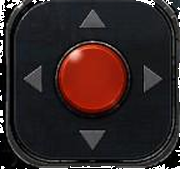
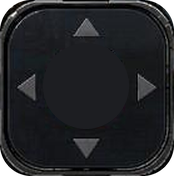
D패드 다시 자름 — 좌우·아래 잘림과 박혀 있던 버튼 제거
dpadbase 는 1차 전수 감사에서 잘림 61.2% 로 이미 걸렸었다. 그때 "목업에
회색 십자키가 맞으니 충실한 것"이라고 판단해 워크오더에서 뺐다. 수치를
보고도 목업과 나란히 놓고 보지 않은 게 잘못이었다. 실제로는 크롭 박스가
패드 경계와 어긋나 좌우와 아래가 잘렸고, 모서리를 flood fill 로 판 자리에
흰·검은 얼룩이 남아 있었다.

목업에 격자를 얹어 모서리 곡선까지 확대해 실측했다. 패드의 바깥 금속
테두리는 x 12~150, y 841~981, 모서리 반지름 25 다. 모서리 투명화는 flood
fill 대신 둥근 사각형 마스크로 했다 — 패드가 실제로 둥근 사각형이라
기하학적으로 정확하고, 배경색을 따라가지 않으니 얼룩이 안 남는다.

그리고 베이스에 빨간 버튼이 박혀 있었다. 노브는 별도 오브젝트로 움직이므로
패드를 옮기면 버튼이 두 개로 보인다. 버튼 자리를 패드 표면색으로 메웠다.
투명하게 뚫으면 그 자리로 바닥이 비친다.

감사 스크립트에는 dpadbase·dpadknob 을 '상자를 꽉 채우는 도형' 예외로
등록했다. 다만 예외에 넣기 전에 목업과 대조하라는 경고를 함께 적었다 —
수치가 오탐인 것과 결함이 없는 것은 다르다.

diff --git a/Projects/AVSR/_recut_dpad.py b/Projects/AVSR/_recut_dpad.py
@@ -1,0 +1,89 @@
+"""D패드를 목업에서 다시 자른다.
+
+기존 dpadbase 는 크롭 박스가 실제 패드 경계와 어긋나 좌우·아래가 잘렸고,
+모서리를 flood fill 로 파낸 자리에 흰·검은 얼룩이 남았다.
+
+목업에 격자를 얹어 실측한 경계는 x 8~148, y 838~980 이다.
+모서리 투명화는 flood fill 대신 **둥근 사각형 마스크**로 한다. 패드가
+실제로 둥근 사각형이므로 기하학적으로 정확하고, 배경색을 따라가지 않으니
+얼룩이 남지 않는다. 노브도 같은 이유로 타원 마스크를 쓴다.
+"""
+import os
+from PIL import Image, ImageDraw
+
+HERE = os.path.dirname(os.path.abspath(__file__))
+ROOT = os.path.abspath(os.path.join(HERE, '..', '..'))
+IG = os.path.join(ROOT, 'Assets', 'BaseResource', 'InGameMainUI')
+MOCK = os.path.join(HERE, 'Reference', 'Mockups', 'ingame_hd_scene.jpeg')
+
+S = 720 / 576                  # 인게임 목업 → 캔버스 배율
+BASE_BOX = (12, 841, 139, 141) # 실측: 바깥 금속 테두리 딱 맞게 (모서리 곡선 확대해 확인)
+KNOB_BOX = (49, 878, 64, 64)   # 실측: 빨간 면 54px + 검은 베젤
+CORNER = 25                    # 실측 모서리 반지름. 크면 모서리를 깎고, 작으면 배경이 샌다
+SS = 4                         # 마스크를 4배로 그린 뒤 줄여 계단을 없앤다
+
+
+def cut(box, mask_kind, radius=0):
+    x, y, w, h = box
+    src = Image.open(MOCK).convert('RGB').crop((x, y, x + w, y + h))
+    src = src.resize((round(w * S), round(h * S)), Image.LANCZOS).convert('RGBA')
+
+    m = Image.new('L', (src.width * SS, src.height * SS), 0)
+    d = ImageDraw.Draw(m)
+    if mask_kind == 'round':
+        d.rounded_rectangle([0, 0, m.width - 1, m.height - 1],
+                            radius=round(radius * S * SS), fill=255)
+    else:
+        d.ellipse([0, 0, m.width - 1, m.height - 1], fill=255)
+    src.putalpha(m.resize(src.size, Image.LANCZOS))
+    return src
+
+
+def erase_knob(base):
+    """베이스에 박혀 있는 빨간 버튼을 지우고 패드 표면색으로 메운다.
+
+    노브는 별도 오브젝트로 움직인다. 베이스에도 버튼이 남아 있으면 패드를
+    옮길 때 빨간 버튼이 두 개로 보인다. 투명하게 뚫으면 그 자리로 바닥이
+    비치므로, 패드의 어두운 표면색으로 메운다.
+    """
+    px = base.load()
+    # 버튼도 화살표도 없는 깨끗한 표면에서 색을 딴다
+    sx = round((40 - BASE_BOX[0]) * S)
+    sy = round((870 - BASE_BOX[1]) * S)
+    surf = px[sx, sy]
+
+    kx = round((KNOB_BOX[0] - BASE_BOX[0]) * S)
+    ky = round((KNOB_BOX[1] - BASE_BOX[1]) * S)
+    kw = round(KNOB_BOX[2] * S)
+    kh = round(KNOB_BOX[3] * S)
+    pad = 3                                   # 베젤 그림자까지 확실히 덮는다
+
+    hole = Image.new('L', ((kw + pad * 2) * SS, (kh + pad * 2) * SS), 0)
+    ImageDraw.Draw(hole).ellipse([0, 0, hole.width - 1, hole.height - 1], fill=255)
+    hole = hole.resize((kw + pad * 2, kh + pad * 2), Image.LANCZOS)
+
+    fill = Image.new('RGBA', hole.size, (surf[0], surf[1], surf[2], 255))
+    base.paste(fill, (kx - pad, ky - pad), hole)
+    return base
+
+
+def main():
+    b = erase_knob(cut(BASE_BOX, 'round', CORNER))
+    old = Image.open(os.path.join(IG, 'dpadbase.png')).size
+    b.save(os.path.join(IG, 'dpadbase.png'))
+    print(f'  dpadbase  {old} → {b.size}  (박혀 있던 버튼 제거)')
+
+    k = cut(KNOB_BOX, 'ellipse')
+    old = Image.open(os.path.join(IG, 'dpadknob.png')).size
+    k.save(os.path.join(IG, 'dpadknob.png'))
+    print(f'  dpadknob  {old} → {k.size}')
+
+    # 레이아웃에 넣을 값 — 노브는 패드 안에서 중앙에 놓는다
+    bx, by, bw, bh = BASE_BOX
+    print(f'\n  레이아웃 DPadBase (목업좌표) = {(bx, by, bw, bh)}')
+    print(f'  DPadKnob local = '
+          f'{(round((bw - KNOB_BOX[2]) / 2), round((bh - KNOB_BOX[3]) / 2), KNOB_BOX[2], KNOB_BOX[3])}')
+
+
+if __name__ == '__main__':
+    main()

diff --git a/Projects/AVSR/_audit_crop.py b/Projects/AVSR/_audit_crop.py
@@ -25,6 +25,15 @@ FULLBLEED = ('background', 'roomfloor', 'fill', 'bg', 'cooldown', 'tipbar',
              'lockup', 'art', 'frame', 'card', 'counter', 'widget', 'pedestal',
              'title', 'button')
 
+# 상자를 꽉 채우는 도형이라 '잘림' 판정이 원래 높게 나오는 것들.
+# 둥근 사각형·원은 상하좌우 중앙이 가장자리에 닿는 게 맞다.
+#
+# ⚠ 여기에 넣기 전에 **목업과 대조해 크롭이 정확한지 눈으로 확인할 것.**
+# dpadbase 는 1차 감사에서 61.2% 로 걸렸는데 "목업 충실"이라고 넘겼다가,
+# 실제로는 좌우·아래가 잘리고 모서리에 얼룩이 남은 상태였다. 수치가
+# 오탐인 것과 결함이 없는 것은 다르다.
+SHAPE_FILLS_BOX = ('dpadbase', 'dpadknob')
+
 
 def analyse(path):
     im = Image.open(path).convert('RGBA')
@@ -67,7 +76,7 @@ def main():
             if not f.endswith('.png'):
                 continue
             name = f[:-4]
-            if any(s in name for s in FULLBLEED):
+            if any(s in name for s in FULLBLEED) or name in SHAPE_FILLS_BOX:
                 continue
             r = analyse(os.path.join(d, f))
             if r is None:

diff --git a/Projects/AVSR/_layout_ingame.py b/Projects/AVSR/_layout_ingame.py
@@ -87,8 +87,10 @@ add('StageText',      (223, 66, 208, 16), 'TopHudGroup', 'TMP',
 
 # ── 하단 조작 ───────────────────────────────────────────────────────
 add('ControlGroup',   (0, 850, 576, 174), ROOT, 'GROUP')
-add('DPadBase',       (7, 848, 144, 135), 'ControlGroup', 'IMG')
-add('DPadKnob',       (44, 32, 63, 62), 'DPadBase', 'IMG', local=True)
+# 목업에 격자를 얹어 실측한 D패드 경계 — 바깥 금속 테두리 기준.
+# 노브는 패드 한가운데가 기본 자리다(_recut_dpad.py 가 같은 값을 계산해 출력한다).
+add('DPadBase',       (12, 841, 139, 141), 'ControlGroup', 'IMG')
+add('DPadKnob',       (38, 38, 64, 64), 'DPadBase', 'IMG', local=True)
 
 add('UltimateButton', (324, 854, 122, 140), 'ControlGroup', 'BTN')
 add('UltimateCooldown', (0, 0, 122, 140), 'UltimateButton', 'IMG', local=True)
